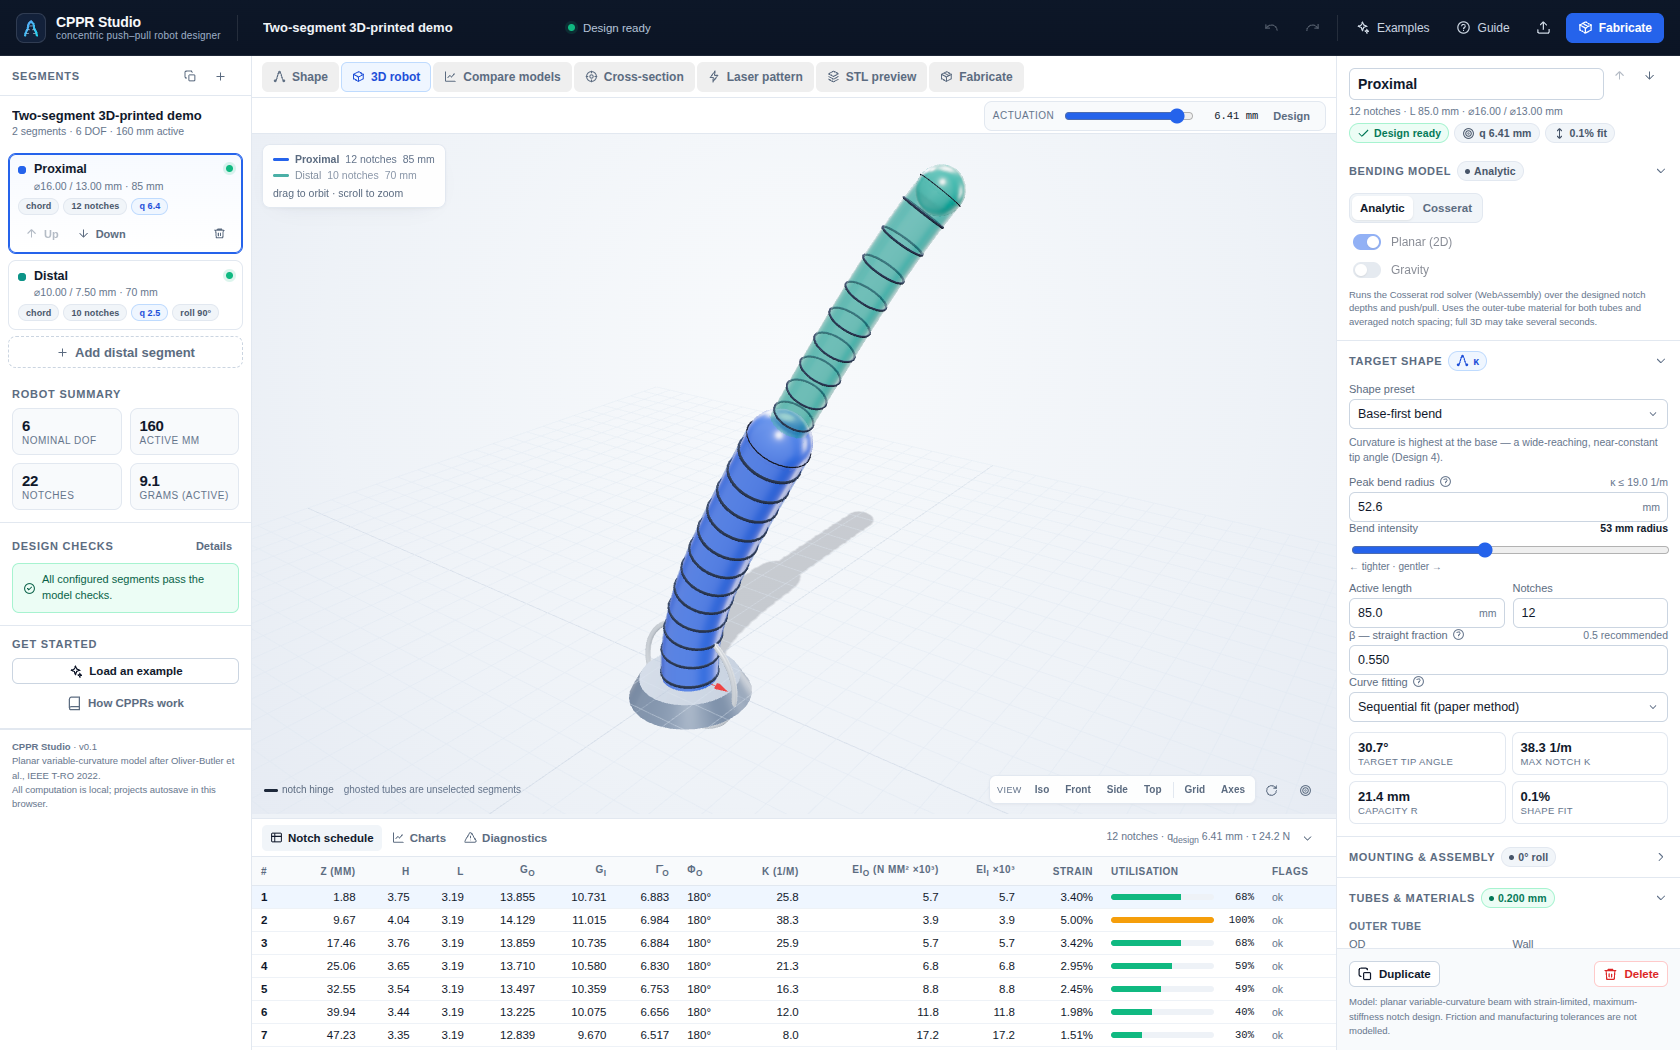
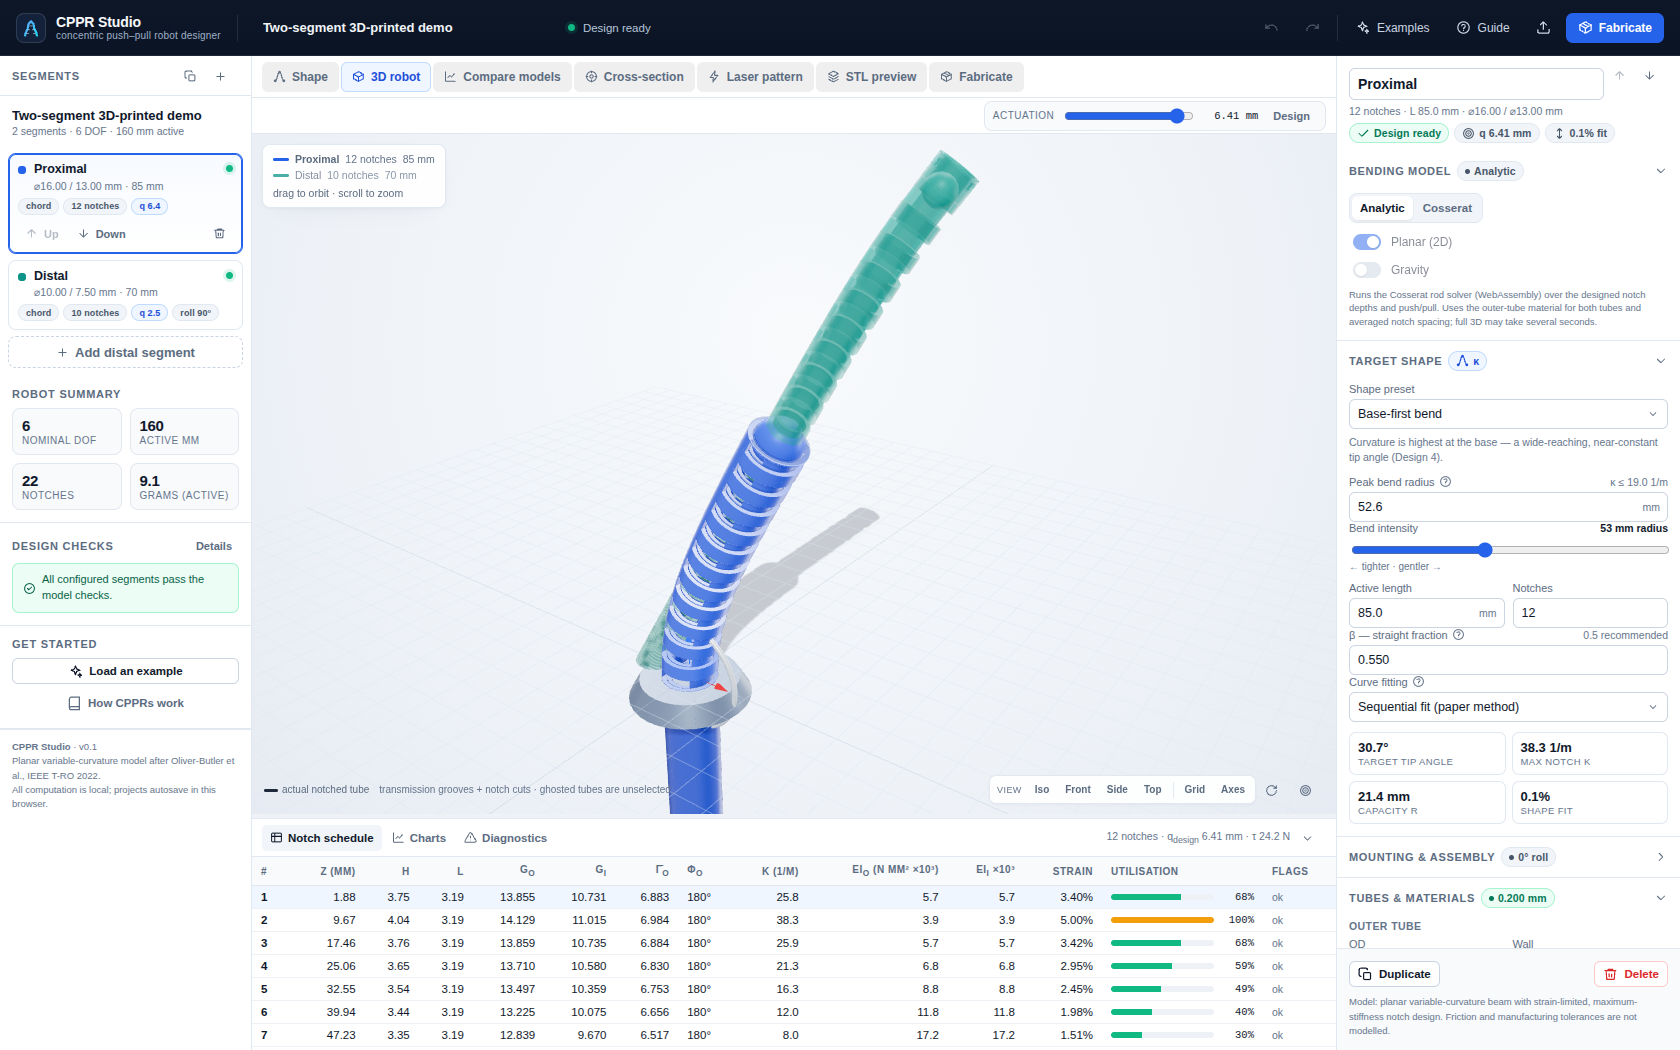
Render actual notched tubes in 3D robot

Changed region(s): [[0.1857, 0.1524, 0.5881, 0.7924]]

diff --git a/src/components/Robot3D.tsx b/src/components/Robot3D.tsx
@@ -5,6 +5,7 @@ import { RoomEnvironment } from 'three/examples/jsm/environments/RoomEnvironment
 import type { Project, RobotResult } from '../core/types';
 import { assembleRobot } from '../core/design/robot';
 import { buildCosseratAssembly } from '../core/cosserat/assembly';
+import { buildSegmentTubes, type TubeBuild } from '../core/fab/build';
 import type { CosseratResult, SolverMode } from '../core/cosserat/solver';
 import { IconButton } from './ui';
 
@@ -171,7 +172,11 @@ export function Robot3D({
       const current = assemblyRef.current;
       if (!current.worldShape.length) return;
       const box = new THREE.Box3();
-      for (const p of current.worldShape) box.expandByPoint(new THREE.Vector3(p[0], p[1], p[2]));
+      const liveGroup = robotGroupRef.current;
+      if (liveGroup && liveGroup.children.length) box.setFromObject(liveGroup);
+      if (box.isEmpty()) {
+        for (const p of current.worldShape) box.expandByPoint(new THREE.Vector3(p[0], p[1], p[2]));
+      }
       if (box.isEmpty()) return;
       const center = box.getCenter(new THREE.Vector3());
       const sphere = box.getBoundingSphere(new THREE.Sphere());
@@ -237,81 +242,112 @@ export function Robot3D({
       const idx = enabled.findIndex((s) => s.id === seg.segmentId);
       const cfg = enabled[idx];
       if (!cfg) return;
-      const color = new THREE.Color(COLORS[idx % COLORS.length]);
       const selected = cfg.id === selectedSegmentId;
-      const pts = seg.points.map((p) => new THREE.Vector3(p[0], p[1], p[2]));
+      const pts: THREE.Vector3[] = seg.points.map((p) => new THREE.Vector3(p[0], p[1], p[2]));
       if (pts.length < 2) return;
-      const curve = new THREE.CatmullRomCurve3(pts, false, 'catmullrom', 0.15);
-      const radius = Math.max(0.15, cfg.outerTube.od / 2);
-      const tubeGeo = new THREE.TubeGeometry(curve, Math.max(40, pts.length * 3), radius, 24, false);
-      if (selected) {
-        const outlineGeo = new THREE.TubeGeometry(curve, Math.max(32, pts.length * 2), radius + Math.max(0.07, radius * 0.035), 16, false);
-        const outline = new THREE.Mesh(
-          outlineGeo,
-          new THREE.MeshBasicMaterial({
-            color: new THREE.Color(COLORS[idx % COLORS.length]).multiplyScalar(0.42),
-            side: THREE.BackSide,
-            transparent: true,
-            opacity: 0.34,
-          }),
-        );
-        group.add(outline);
+      const res = result.segments.find((r) => r.segmentId === cfg.id);
+      if (!res) return;
+      const fab = buildSegmentTubes(cfg, res, { includeTransmission: true });
+      const colorBase = new THREE.Color(COLORS[idx % COLORS.length]);
+      const basePos = new THREE.Vector3(seg.base.position[0], seg.base.position[1], seg.base.position[2]);
+      const baseQ = new THREE.Quaternion(seg.base.quaternion[0], seg.base.quaternion[1], seg.base.quaternion[2], seg.base.quaternion[3]).normalize();
+      const baseT = new THREE.Vector3(0, 0, 1).applyQuaternion(baseQ).normalize();
+      const baseN = new THREE.Vector3(1, 0, 0).applyQuaternion(baseQ).normalize();
+      const cum: number[] = [0];
+      for (let i = 1; i < pts.length; i++) cum.push(cum[i - 1] + pts[i].distanceTo(pts[i - 1]));
+      const frames: { s: number; p: THREE.Vector3; T: THREE.Vector3; N: THREE.Vector3; B: THREE.Vector3 }[] = [];
+      let prevT = baseT.clone();
+      let transportedN = baseN.clone();
+      for (let i = 0; i < pts.length; i++) {
+        const T = i === 0 ? baseT.clone() : pts[i].clone().sub(pts[i - 1]).normalize();
+        if (i > 0) {
+          const q = new THREE.Quaternion().setFromUnitVectors(prevT, T);
+          transportedN.applyQuaternion(q);
+        }
+        transportedN.sub(T.clone().multiplyScalar(transportedN.dot(T))).normalize();
+        const B = new THREE.Vector3().crossVectors(T, transportedN).normalize();
+        frames.push({ s: cum[i], p: pts[i].clone(), T, N: transportedN.clone(), B });
+        prevT = T;
       }
-      const mat = new THREE.MeshPhysicalMaterial({
-        color,
-        roughness: 0.3,
-        metalness: 0.12,
-        clearcoat: 0.42,
-        clearcoatRoughness: 0.38,
-        transparent: !selected,
-        opacity: selected ? 1 : 0.5,
-        depthWrite: selected,
-        envMapIntensity: 1.15,
-        side: THREE.DoubleSide,
-      });
-      const mesh = new THREE.Mesh(tubeGeo, mat);
-      mesh.userData.segmentId = cfg.id;
-      mesh.castShadow = true;
-      mesh.receiveShadow = true;
-      group.add(mesh);
-
-      for (const n of seg.notches) {
-        const q = new THREE.Quaternion(n.quaternion[0], n.quaternion[1], n.quaternion[2], n.quaternion[3]);
-        const tangent = new THREE.Vector3(0, 0, 1).applyQuaternion(q).normalize();
-        const ring = new THREE.Mesh(
-          new THREE.TorusGeometry(radius * 1.006, Math.max(0.07, radius * 0.05), 8, 32),
-          new THREE.MeshStandardMaterial({ color: 0x243044, roughness: 0.7, metalness: 0.2 }),
-        );
-        ring.position.set(n.position[0], n.position[1], n.position[2]);
-        ring.quaternion.setFromUnitVectors(new THREE.Vector3(0, 0, 1), tangent);
-        ring.castShadow = true;
-        group.add(ring);
-
-        const highlight = new THREE.Mesh(
-          new THREE.TorusGeometry(radius * 1.022, Math.max(0.018, radius * 0.011), 6, 32),
-          new THREE.MeshBasicMaterial({ color: 0xffffff, transparent: true, opacity: 0.24 }),
-        );
-        highlight.position.copy(ring.position);
-        highlight.quaternion.copy(ring.quaternion);
-        group.add(highlight);
-      }
-
+      const frameAt = (s: number) => {
+        const clamped = Math.max(0, Math.min(cum[cum.length - 1], s));
+        let j = 1;
+        while (j < frames.length - 1 && frames[j].s < clamped) j++;
+        const a = frames[j - 1];
+        const b = frames[j] ?? a;
+        const w = b.s > a.s ? (clamped - a.s) / (b.s - a.s) : 0;
+        return {
+          p: a.p.clone().lerp(b.p, w),
+          T: a.T.clone().lerp(b.T, w).normalize(),
+          N: a.N.clone().lerp(b.N, w).normalize(),
+          B: a.B.clone().lerp(b.B, w).normalize(),
+        };
+      };
+      const makeDeformed = (tube: TubeBuild, activeBase: number) => {
+        const pos = tube.mesh.positions;
+        const out = new Float32Array(pos.length);
+        const colors = new Float32Array(pos.length);
+        const dark = colorBase.clone().multiplyScalar(0.72).lerp(new THREE.Color('#334155'), 0.18);
+        for (let i = 0; i < pos.length; i += 3) {
+          const x = pos[i];
+          const y = pos[i + 1];
+          const z = pos[i + 2];
+          let world: THREE.Vector3;
+          let c = colorBase;
+          if (z <= activeBase) {
+            world = new THREE.Vector3(x, y, z - activeBase).applyQuaternion(baseQ).add(basePos);
+            c = dark;
+          } else if (z <= activeBase + res.activeTubeLength) {
+            const f = frameAt(z - activeBase);
+            world = f.p.clone().addScaledVector(f.N, x).addScaledVector(f.B, y);
+          } else {
+            const last = frames[frames.length - 1];
+            const extra = z - (activeBase + res.activeTubeLength);
+            world = last.p.clone().addScaledVector(last.T, extra).addScaledVector(last.N, x).addScaledVector(last.B, y);
+          }
+          out[i] = world.x; out[i + 1] = world.y; out[i + 2] = world.z;
+          colors[i] = c.r; colors[i + 1] = c.g; colors[i + 2] = c.b;
+        }
+        const geometry = new THREE.BufferGeometry();
+        geometry.setAttribute('position', new THREE.BufferAttribute(out, 3));
+        geometry.setAttribute('color', new THREE.BufferAttribute(colors, 3));
+        geometry.setIndex(new THREE.Uint32BufferAttribute(new Uint32Array(tube.mesh.triangles), 1));
+        geometry.computeVertexNormals();
+        const mat = new THREE.MeshPhysicalMaterial({
+          vertexColors: true,
+          roughness: 0.34,
+          metalness: 0.1,
+          clearcoat: 0.35,
+          clearcoatRoughness: 0.42,
+          transparent: !selected,
+          opacity: selected ? 1 : 0.42,
+          depthWrite: selected,
+          envMapIntensity: 1.1,
+          side: THREE.DoubleSide,
+        });
+        const mesh = new THREE.Mesh(geometry, mat);
+        mesh.castShadow = true;
+        mesh.receiveShadow = true;
+        group.add(mesh);
+        if (selected) {
+          const outline = new THREE.Mesh(
+            geometry,
+            new THREE.MeshBasicMaterial({ color: colorBase.clone().multiplyScalar(0.35), side: THREE.BackSide, transparent: true, opacity: 0.22 }),
+          );
+          outline.scale.setScalar(1.008);
+          group.add(outline);
+        }
+      };
+      makeDeformed(fab.outer, fab.outerActiveStart);
+      makeDeformed(fab.inner, fab.innerActiveStart);
+      const last = frames[frames.length - 1];
       const tip = new THREE.Mesh(
-        new THREE.SphereGeometry(radius * 1.015, 24, 16),
-        new THREE.MeshPhysicalMaterial({ color, roughness: 0.3, metalness: 0.1, clearcoat: 0.5, clearcoatRoughness: 0.3 }),
+        new THREE.SphereGeometry(Math.max(0.2, cfg.innerTube.od / 2), 16, 12),
+        new THREE.MeshStandardMaterial({ color: colorBase, roughness: 0.4, metalness: 0.1, transparent: !selected, opacity: selected ? 1 : 0.5 }),
       );
-      tip.position.set(seg.tip[0], seg.tip[1], seg.tip[2]);
+      tip.position.copy(last.p);
       tip.castShadow = true;
-      tip.receiveShadow = true;
       group.add(tip);
-      const tipTangent = pts[pts.length - 1].clone().sub(pts[pts.length - 2]).normalize();
-      const tipRing = new THREE.Mesh(
-        new THREE.TorusGeometry(radius * 1.04, Math.max(0.02, radius * 0.02), 6, 28),
-        new THREE.MeshStandardMaterial({ color: 0x0f172a, roughness: 0.45, metalness: 0.3 }),
-      );
-      tipRing.position.copy(tip.position);
-      tipRing.quaternion.setFromUnitVectors(new THREE.Vector3(0, 0, 1), tipTangent);
-      group.add(tipRing);
     });
 
     // base disc
@@ -389,8 +425,8 @@ export function Robot3D({
 
       <div className="view-note">
         <div className="legend">
-          <span><span className="swatch" style={{ background: '#1e293b' }} />notch hinge</span>
-          <span className="faint">ghosted tubes are unselected segments</span>
+          <span><span className="swatch" style={{ background: '#1e293b' }} />actual notched tube</span>
+          <span className="faint">transmission grooves + notch cuts · ghosted tubes are unselected</span>
         </div>
         <div className="grow" />
         <div className="scene-viewbar">

diff --git a/src/components/HelpModal.tsx b/src/components/HelpModal.tsx
@@ -44,8 +44,9 @@ export function HelpModal({ onClose }: { onClose: () => void }) {
           </p>
           <h3>3D robot view</h3>
           <p>
-            The 3D robot view uses environment lighting, soft contact shadows and PBR tube materials. The selected pair is outlined; the
-            other pairs are ghosted. Notch hinge grooves and tip/base details make the assembly easier to read. Use the <b>Iso</b>,
+            The 3D robot view renders the actual notched tube meshes, including transmission slots and notch cuts, deformed into the final
+            assembled configuration. It uses environment lighting, soft contact shadows and PBR tube materials; the selected pair is outlined
+            and the other pairs are ghosted. Use the <b>Iso</b>,
             <b>Front</b>, <b>Side</b> and <b>Top</b> presets to inspect the pose; toggle the grid and axes from the same bar.
           </p>
           <h3>Cosserat (accurate) bending</h3>

diff --git a/src/core/types.ts b/src/core/types.ts
@@ -299,6 +299,8 @@ export interface RobotResult {
     segmentId: string;
     points: [number, number, number][];
     tip: [number, number, number];
+    /** Base frame of the segment's active section (local +z is the tube axis). */
+    base: { position: [number, number, number]; quaternion: [number, number, number, number] };
     frames: { position: [number, number, number]; quaternion: [number, number, number, number] }[];
     notches: { position: [number, number, number]; quaternion: [number, number, number, number]; h: number }[];
   }[];

diff --git a/src/core/cosserat/assembly.ts b/src/core/cosserat/assembly.ts
@@ -62,10 +62,14 @@ export function buildCosseratAssembly(
       };
     });
     const frames = notches.map((notch) => ({ position: notch.position, quaternion: notch.quaternion }));
+    const baseFrame = section.leader[0];
     worldSegments.push({
       segmentId,
       points,
       tip: points[points.length - 1],
+      base: baseFrame
+        ? { position: points[0], quaternion: quatFromMat(frameMatrix(baseFrame)) }
+        : { position: points[0], quaternion: [0, 0, 0, 1] },
       frames,
       notches,
     });

diff --git a/src/core/design/robot.ts b/src/core/design/robot.ts
@@ -183,6 +183,7 @@ export function assembleRobot(
       segmentId: cfg.id,
       points,
       tip: points[points.length - 1],
+      base: { position: P0, quaternion: quatFromMat(Q0) },
       frames,
       notches,
     });

diff --git a/README.md b/README.md
@@ -55,7 +55,7 @@ Requires Node 18+ (developed on Node 24). The app is a static Vite/React/TypeScr
 - **Live STL preview.** A dedicated viewer rebuilds the actual printable outer/inner tube meshes as you change settings. Switch Both/Outer/Inner and Complete/Tip-only, orbit/zoom, auto-rotate or fit; handle (purple), solid transmission (grey), flex transmission (blue) and active notches (orange) are color-coded, with the distal tips aligned and the inner exploded above the outer.
 - **Fabrication.** Binary STL for each tube in the print orientation (layers along the axis): **tip-only** files for the bending section and **complete-tube** files that include the transmission slots and the inner handle. Also a **tip-only build plate**, a **complete-tube build plate** (all full tubes in one STL), 1:1 unrolled SVG/DXF laser patterns, a printable HTML design report, notch CSV, full design JSON, and a **Download everything (.zip)** package containing all tubes, both plates, both laser files, the report, CSV, JSON and a README.
 - **Connected transmission extension.** Add a solid proximal extension to the outer and/or inner tube and bridge the joint to the existing transmission with a separate coupler sleeve. The extension is included in the complete tube and laser pattern; the coupler is its own STL in the individual, complete-plate and everything exports.
-- **3D robot view.** Environment-lit PBR tubes, soft contact shadows, selected-tube outlines and ghosting, notch groove highlights, refined tip/base details, and Iso/Front/Side/Top presets with grid and axes toggles.
+- **3D robot view.** The actual notched tube meshes — transmission slots and notch cuts included — are bent into the final assembled configuration. Environment-lit PBR materials, soft contact shadows, selected-tube outlines and ghosting, plus Iso/Front/Side/Top presets with grid and axes toggles.
 - **Usability.** Live 2D shape canvas with pan/zoom, 3D orbit view, cross-section inspector with neutral axes and strain edges, notch table and charts, examples, undo/redo, project import/export and autosave.
 
 ## How to use it
